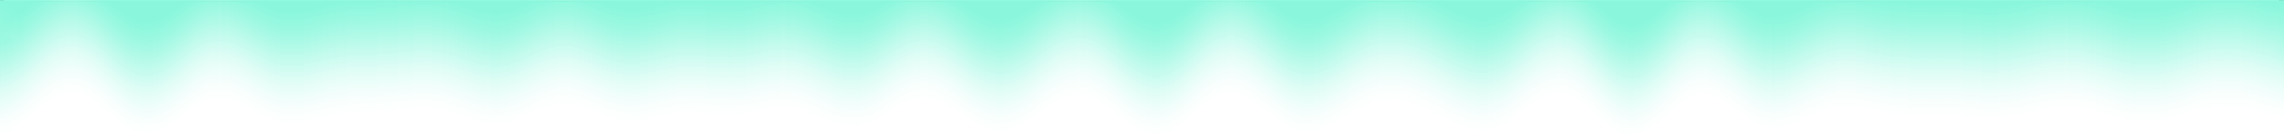
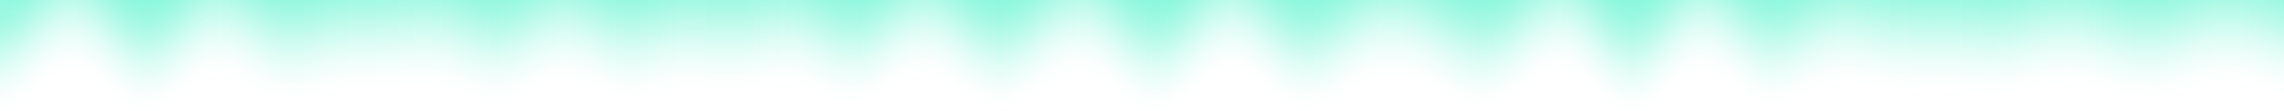
Убрал лишний код заголовка

Changed region(s): [[0.0, 0.0, 1.0, 0.2973], [0.9947, 0.3514, 1.0, 0.3784]]

diff --git a/css/index.css b/css/index.css
@@ -12,11 +12,17 @@ html {
 	--font: 78%/130% "Verdana", "Arial", "Helvetica", sans-serif;
 	
 	/* внешняя рамка всего содержимого */
-	--outerFrameBorderColor: #21241b;
-	--outerFrameBorderRadius: 8px;
-	--outerFrameBorderWidth: 1px;
+	--frameBorderColor: #21241b;
+	--frameBorderRadius: 8px;
+	--frameBorderWidth: 1px;
 
-	/* внутренняя рамка заголовка */
+	/* заголовок */
+	--headerBackgroundColor: #33362d;
+	--headerBackgroundImage: linear-gradient(#262920, var(--headerBackgroundColor));
+	--headerBackgroundHeight: 74px;
+	--headerDecoBorderRadius: 6px;
+	--headerDecoHSpace: 5px;
+	--headerDecoVSpace: 44px;
 }
 
 /* Set a fontsize that will look the same in all browsers. */
@@ -31,52 +37,51 @@ body
 	padding: var(--bodyVerticalPaddings) 0;
 }
 
+.lff-container {
+	margin: 0 auto;
+	min-width: 764px;
+	max-width: 2300px;
+}
 
 /* Стили для верхней части страницы (заголовка).
 ------------------------------------------------------- */
 .lff-header {
-	background-color: #33362d;
-	border: var(--outerFrameBorderWidth) solid var(--outerFrameBorderColor);
+	background: var(--headerBackgroundColor) var(--headerBackgroundImage) repeat-x;
+	background-size: 1px var(--headerBackgroundHeight);
+	border: var(--frameBorderWidth) solid var(--frameBorderColor);
 	border-bottom-width: 0;
-	border-radius: var(--outerFrameBorderRadius) var(--outerFrameBorderRadius) 0 0;
-}
-
-.lff-header-inner-frame {
-	background-image: linear-gradient(#262920, #33362d);
-	background-repeat: repeat-x;
-	background-size: 1px 74px;
-	background-clip: padding-box;
-	border: 1px solid transparent;
-	border-radius: 8px 8px 0 0;
+	border-radius: var(--frameBorderRadius) var(--frameBorderRadius) 0 0;
 	position: relative;
 }
 
-.lff-header-inner-frame::before {
-	background: linear-gradient(#33362d, #33362d);
-	border-radius: inherit;
+/* Внутренняя рамка заголовка */
+.lff-header::before {
+	border: 1px solid var(--headerBackgroundColor);
+	border-bottom-width: 0;
+	border-radius: var(--frameBorderRadius) var(--frameBorderRadius) 0 0;
 	content: '';
 	display: block;
 	height: 61px;
 	left: 0;
-	margin: -1px;
 	position: absolute;
 	right: 0;
 	top: 0;
-	z-index: -1;
+	z-index: 0;
 }
 
-.lff-header-inner-frame::after {
+/* Декорация заголовка */
+.lff-header::after {
 	background-image: url(../images/theme/header-deco.png);
 	background-position: center top;
 	background-repeat: no-repeat;
-	border-radius: 6px;
+	border-radius: var(--headerDecoBorderRadius);
 	content: '';
 	display: block;
-	height: 136px;
-	left: 4px;
+	height: 111px;
+	left: var(--headerDecoHSpace);
 	position: absolute;
-	right: 4px;
-	top: 43px;
+	right: var(--headerDecoHSpace);
+	top: var(--headerDecoVSpace);
 	z-index: 0;
 }
 
@@ -126,9 +131,11 @@ body, td, th, tr
 /* This division wraps the entire forum when a forum width is set. */
 div#wrapper
 {
+	/*
 	margin: 0 auto;
 	min-width: 764px;
 	max-width: 2300px;
+	*/
 }
 
 /* lets give all forms zero padding/margins */

diff --git a/index.template.php b/index.template.php
@@ -495,7 +495,7 @@ function renderToggleJs () {
  * Выводи шапку форума: логотип, пользовательский блок, ссылку на магазин, меню.
  */
 function renderHeader () {
-	echo '<div id="header" class="lff-header"><div class="lff-header-inner-frame">';
+	echo '<div id="header" class="lff-header">';
 
 	renderTopSection();	
 	renderUpperSection();
@@ -508,13 +508,14 @@ function renderHeader () {
 
 	renderBrSeparator();
 
-	echo '</div></div>';
+	echo '</div>';
 }
 
 function template_body_above() {
 	global $context, $settings, $options, $scripturl, $txt, $modSettings;
 
-	echo !empty($settings['forum_width']) ? '<div id="wrapper" style="width: ' . $settings['forum_width'] . '">' : '';
+	$style = empty($settings['forum_width']) ? '' : ' style="width: ' . $settings['forum_width'] . ';"';
+	echo '<div id="wrapper" class="lff-container"' . $style . '>';
 	
 	renderHeader();
 
@@ -553,8 +554,7 @@ function template_body_below()
 		<p>', $txt['page_created'], $context['load_time'], $txt['seconds_with'], $context['load_queries'], $txt['queries'], '</p>';
 
 	echo '
-	</div></div>', !empty($settings['forum_width']) ? '
-</div>' : '';
+	</div></div>', '</div>';
 }
 
 function template_html_below()
